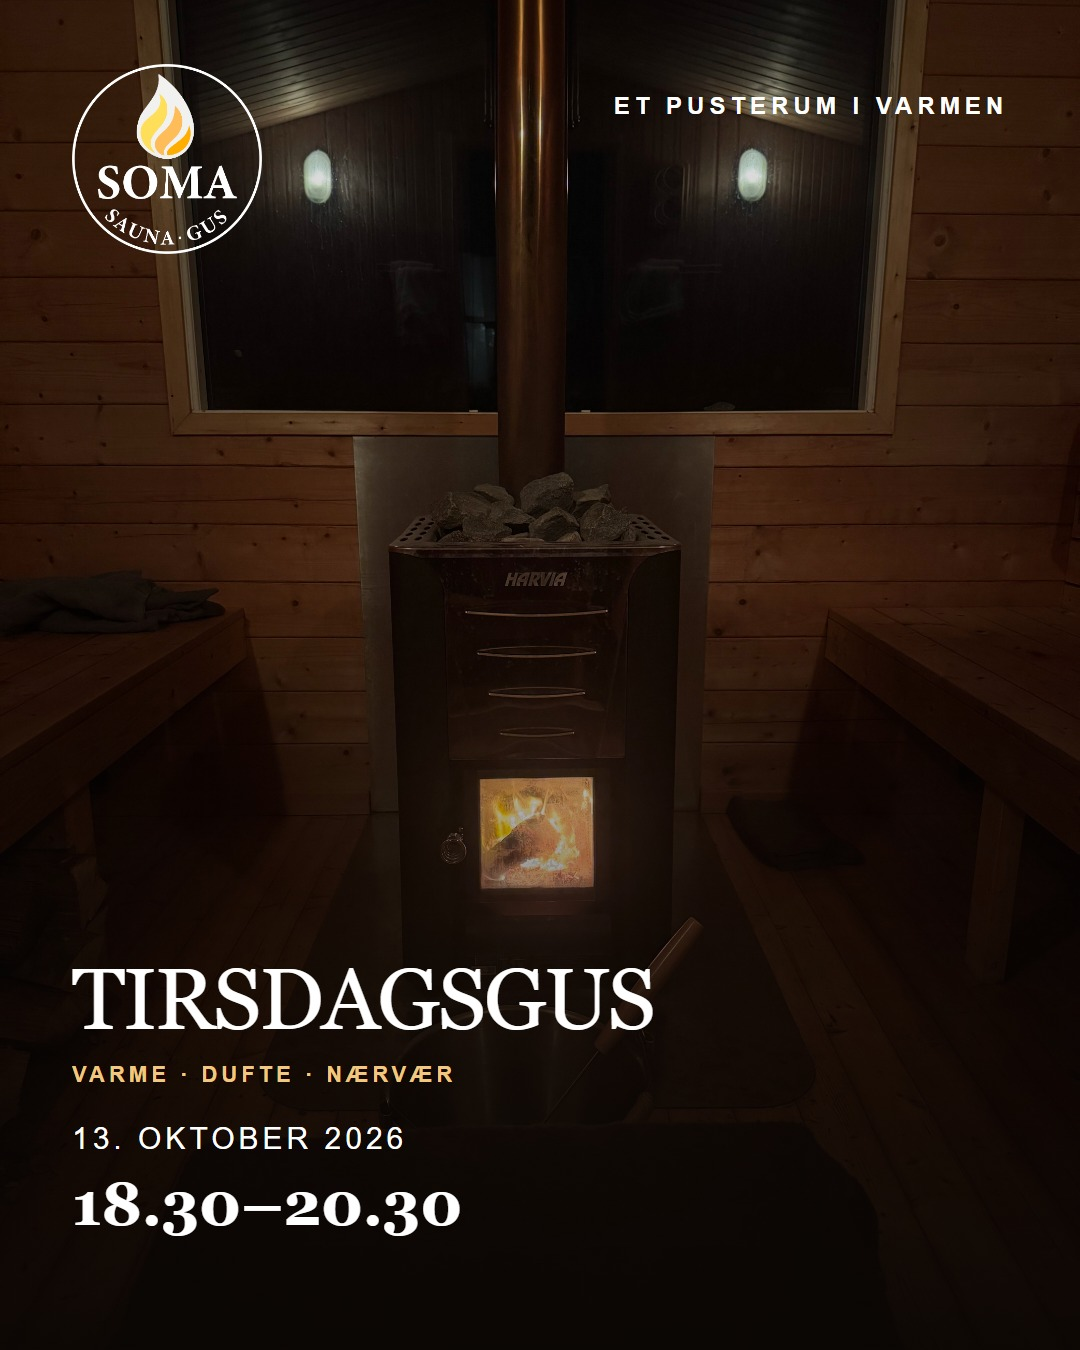
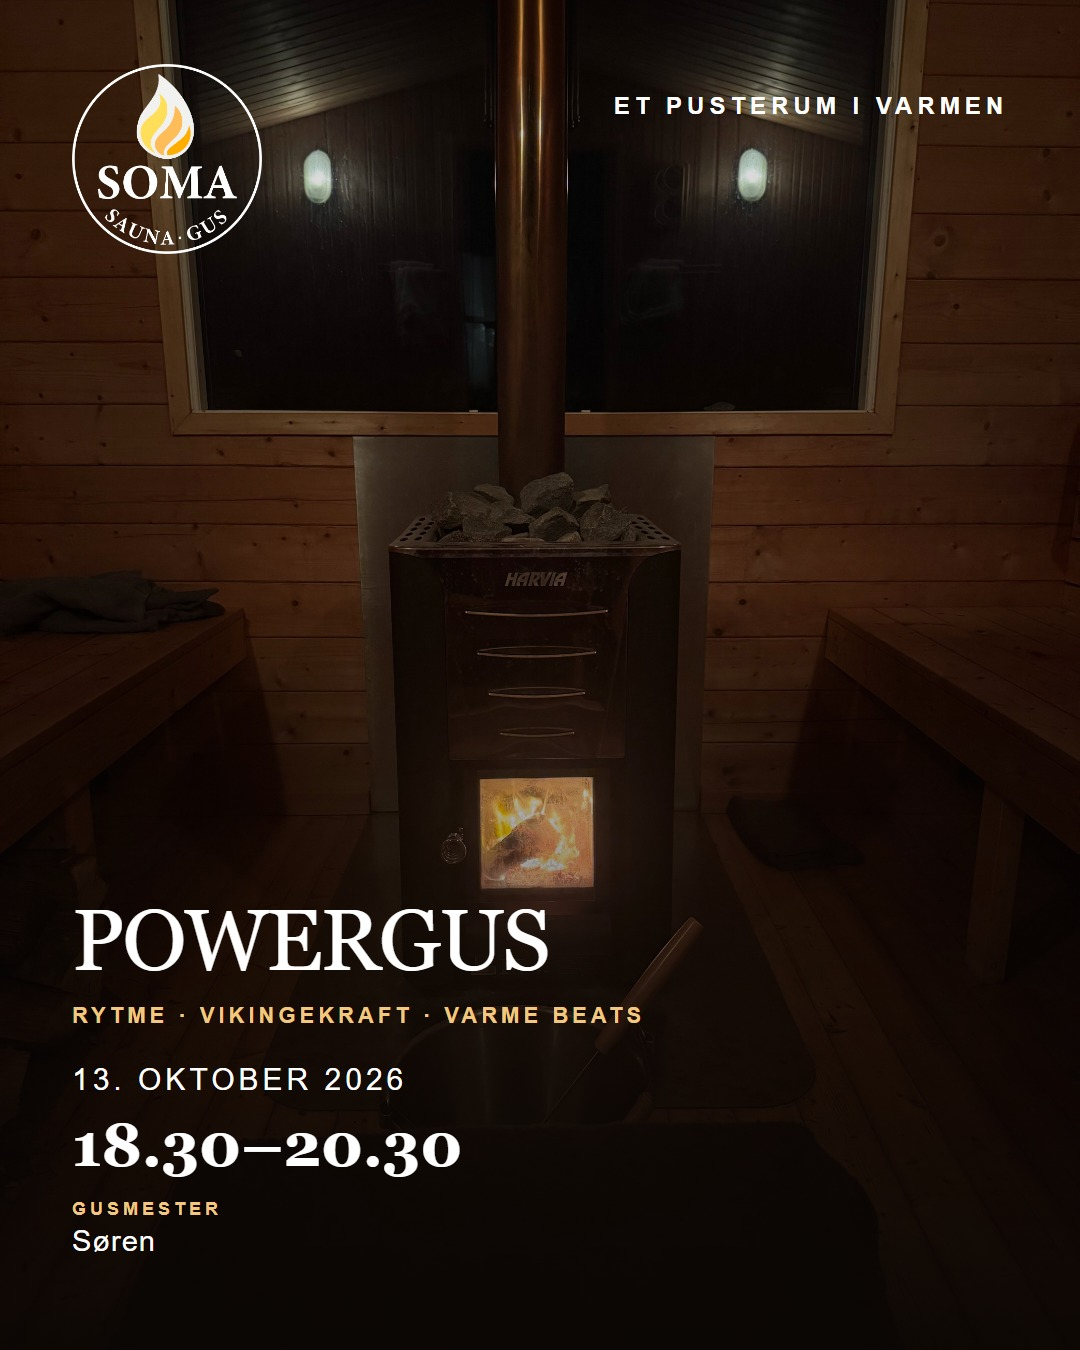
choose-instructor: 2026-10-13_18-30_saunagus_day-before_r10 (soren) via lokal godkendelsesside

Changed region(s): [[0.0611, 0.6533, 0.6111, 0.9333]]

diff --git a/outputs/content-planner/approval/drafts-data.js b/outputs/content-planner/approval/drafts-data.js
@@ -728,7 +728,7 @@ window.__SOMA_DRAFTS__ = window.__SOMA_DRAFTS__ || [
         "name": "Saunagus",
         "booked": 0,
         "capacity": 12,
-        "instructor": null,
+        "instructor": "Søren",
         "description": null,
         "sourceText": "18:30 - 20:30 SAUNAGUS 0/12 Tilmeld",
         "sourceUrl": "https://somasaunagus.dk/kalender/",
@@ -785,11 +785,11 @@ window.__SOMA_DRAFTS__ = window.__SOMA_DRAFTS__ || [
     "availability": null,
     "warnings": [],
     "platformCopies": {
-      "instagram": "Næste uges gus 🔥\n\n• 13. oktober 2026 · 18.30–20.30 · Tirsdagsgus\n• 15. oktober 2026 · 18.30–20.30 · Torsdagsgus\n• 18. oktober 2026 · 10.00–12.00 · Gus med MilleMaja\n• 18. oktober 2026 · 16.00–18.00 · Søndagsgus\n\nSe tider og book via kalenderen: https://somasaunagus.dk/kalender/",
-      "facebookPage": "Her er næste uges gus. Hver session har sit eget udtryk, men altid med plads til ro, varme, dufte, musik og nærvær.\n\n• 13. oktober 2026 · 18.30–20.30 · Tirsdagsgus\n• 15. oktober 2026 · 18.30–20.30 · Torsdagsgus\n• 18. oktober 2026 · 10.00–12.00 · Gus med MilleMaja\n• 18. oktober 2026 · 16.00–18.00 · Søndagsgus\n\nFind den oplevelse, der passer dig, og book din plads her: https://somasaunagus.dk/kalender/",
-      "facebookGroup": "Kære alle ❤\n\nHer er næste uges muligheder for at finde ro i varmen:\n\n• 13. oktober 2026 · 18.30–20.30 · Tirsdagsgus\n• 15. oktober 2026 · 18.30–20.30 · Torsdagsgus\n• 18. oktober 2026 · 10.00–12.00 · Gus med MilleMaja\n• 18. oktober 2026 · 16.00–18.00 · Søndagsgus\n\nJeg glæder mig til at se jer. Booking: https://somasaunagus.dk/kalender/"
+      "instagram": "Næste uges gus 🔥\n\n• 13. oktober 2026 · 18.30–20.30 · Powergus\n• 15. oktober 2026 · 18.30–20.30 · Torsdagsgus\n• 18. oktober 2026 · 10.00–12.00 · Gus med MilleMaja\n• 18. oktober 2026 · 16.00–18.00 · Søndagsgus\n\nSe tider og book via kalenderen: https://somasaunagus.dk/kalender/",
+      "facebookPage": "Her er næste uges gus. Hver session har sit eget udtryk, men altid med plads til ro, varme, dufte, musik og nærvær.\n\n• 13. oktober 2026 · 18.30–20.30 · Powergus\n• 15. oktober 2026 · 18.30–20.30 · Torsdagsgus\n• 18. oktober 2026 · 10.00–12.00 · Gus med MilleMaja\n• 18. oktober 2026 · 16.00–18.00 · Søndagsgus\n\nFind den oplevelse, der passer dig, og book din plads her: https://somasaunagus.dk/kalender/",
+      "facebookGroup": "Kære alle ❤\n\nHer er næste uges muligheder for at finde ro i varmen:\n\n• 13. oktober 2026 · 18.30–20.30 · Powergus\n• 15. oktober 2026 · 18.30–20.30 · Torsdagsgus\n• 18. oktober 2026 · 10.00–12.00 · Gus med MilleMaja\n• 18. oktober 2026 · 16.00–18.00 · Søndagsgus\n\nJeg glæder mig til at se jer. Booking: https://somasaunagus.dk/kalender/"
     },
[2 lines of base64/hex data omitted]
     "factsUsed": [
       "event:2026-10-13_18-30_saunagus.date",
       "event:2026-10-13_18-30_saunagus.time",
@@ -808,7 +808,7 @@ window.__SOMA_DRAFTS__ = window.__SOMA_DRAFTS__ || [
[1 lines of base64/hex data omitted]
     },
     "renderPath": "renders/2026-10-12_weekly-overview-df6ac12272.jpg",
-    "manualInstructor": null,
+    "manualInstructor": "Søren",
     "history": [
       {
         "at": "2026-10-04T07:04:43.509Z",
@@ -869,9 +869,15 @@ window.__SOMA_DRAFTS__ = window.__SOMA_DRAFTS__ || [
         "type": "change_image",
         "from": "draft",
         "to": "draft"
+      },
+      {
+        "at": "2026-10-04T08:48:13.980Z",
+        "type": "change_instructor",
+        "from": "draft",
+        "to": "draft"
       }
     ],
[2 lines of base64/hex data omitted]
     "approvedAt": null,
     "approvedBy": null,
     "approvedRevision": null,
@@ -887,7 +893,7 @@ window.__SOMA_DRAFTS__ = window.__SOMA_DRAFTS__ || [
[1 lines of base64/hex data omitted]
     "revision": 10,
     "kind": "day_before",
-    "status": "needs_review",
+    "status": "draft",
     "scheduledFor": "2026-10-12T19:30:00+02:00",
     "season": "autumn",
     "event": {
@@ -897,7 +903,7 @@ window.__SOMA_DRAFTS__ = window.__SOMA_DRAFTS__ || [
       "name": "Saunagus",
       "booked": 0,
       "capacity": 12,
-      "instructor": null,
+      "instructor": "Søren",
       "description": null,
       "sourceText": "18:30 - 20:30 SAUNAGUS 0/12 Tilmeld",
       "sourceUrl": "https://somasaunagus.dk/kalender/",
@@ -910,15 +916,13 @@ window.__SOMA_DRAFTS__ = window.__SOMA_DRAFTS__ || [
       "label": "12 ledige pladser",
       "soldOut": false
     },
-    "warnings": [
-      "instructor_missing"
-    ],
+    "warnings": [],
     "platformCopies": {
-      "instagram": "I morgen: Giv dig selv et varmt pusterum.\n\nSaunagus\n\n13. oktober 2026 · 18.30–20.30\n\n12 ledige pladser.\n\nBook din plads: https://somasaunagus.dk/kalender/",
-      "facebookPage": "I morgen kan du træde ind i varmen til et saunagus.\n\nGiv dig selv et varmt pusterum.\n\nEt saunagus med varme, dufte, musik og nærvær.\n\nDu er velkommen præcis, som du er.\n\nDato og tid: 13. oktober 2026 · 18.30–20.30\n\n12 ledige pladser.\n\nBook din plads: https://somasaunagus.dk/kalender/",
-      "facebookGroup": "Kære alle ❤\n\nI morgen kan du træde ind i varmen til et saunagus.\n\nGiv dig selv et varmt pusterum.\n\nTid: 13. oktober 2026 · 18.30–20.30\n\n12 ledige pladser.\n\nDu kan booke her: https://somasaunagus.dk/kalender/"
+      "instagram": "I morgen: Kom ind i varmen, land i kroppen og vær lige her.\n\n13. oktober 2026 · 18.30–20.30\n\n12 ledige pladser.\n\nBook din plads: https://somasaunagus.dk/kalender/",
+      "facebookPage": "I morgen kan du træde ind i varmen til et saunagus.\n\nKom ind i varmen, land i kroppen og vær lige her.\n\nMusikken får mere fylde og rytme uden at skubbe roen til side.\n\nEn sanselig stund med plads til både styrke og velvære.\n\nDato og tid: 13. oktober 2026 · 18.30–20.30\n\n12 ledige pladser.\n\nBook din plads: https://somasaunagus.dk/kalender/",
+      "facebookGroup": "Kære alle ❤\n\nI morgen kan du træde ind i varmen til et saunagus.\n\nKom ind i varmen, land i kroppen og vær lige her.\n\nTid: 13. oktober 2026 · 18.30–20.30\n\n12 ledige pladser.\n\nDu kan booke her: https://somasaunagus.dk/kalender/"
     },
[2 lines of base64/hex data omitted]
     "factsUsed": [
       "event.date",
       "event.start",
@@ -931,10 +935,10 @@ window.__SOMA_DRAFTS__ = window.__SOMA_DRAFTS__ || [
       "path": "renders/2026-10-13_18-30_saunagus_day-before-dcb792ffaa.jpg",
       "width": 1080,
       "height": 1350,
[2 lines of base64/hex data omitted]
     },
     "renderPath": "renders/2026-10-13_18-30_saunagus_day-before-dcb792ffaa.jpg",
-    "manualInstructor": null,
+    "manualInstructor": "Søren",
     "instructorOptions": {
       "soren": {
         "instructor": "Søren",
@@ -983,9 +987,15 @@ window.__SOMA_DRAFTS__ = window.__SOMA_DRAFTS__ || [
         "type": "change_image",
         "from": "needs_review",
         "to": "needs_review"
+      },
+      {
+        "at": "2026-10-04T08:48:13.980Z",
+        "type": "change_instructor",
+        "from": "needs_review",
+        "to": "draft"
       }
     ],
[2 lines of base64/hex data omitted]
     "approvedAt": null,
     "approvedBy": null,
     "approvedRevision": null,
@@ -1001,7 +1011,7 @@ window.__SOMA_DRAFTS__ = window.__SOMA_DRAFTS__ || [
[1 lines of base64/hex data omitted]
     "revision": 10,
     "kind": "event_day",
-    "status": "needs_review",
+    "status": "draft",
     "scheduledFor": "2026-10-13T12:00:00+02:00",
     "season": "autumn",
     "event": {
@@ -1011,7 +1021,7 @@ window.__SOMA_DRAFTS__ = window.__SOMA_DRAFTS__ || [
       "name": "Saunagus",
       "booked": 0,
       "capacity": 12,
-      "instructor": null,
+      "instructor": "Søren",
       "description": null,
       "sourceText": "18:30 - 20:30 SAUNAGUS 0/12 Tilmeld",
       "sourceUrl": "https://somasaunagus.dk/kalender/",
@@ -1024,15 +1034,13 @@ window.__SOMA_DRAFTS__ = window.__SOMA_DRAFTS__ || [
       "label": "12 ledige pladser",
       "soldOut": false
     },
-    "warnings": [
-      "instructor_missing"
-    ],
+    "warnings": [],
     "platformCopies": {
-      "instagram": "I dag: Der er plads til ro, varme og nærvær.\n\nSaunagus\n\n13. oktober 2026 · 18.30–20.30\n\n12 ledige pladser.\n\nBook din plads: https://somasaunagus.dk/kalender/",
-      "facebookPage": "I dag kan du træde ind i varmen til et saunagus.\n\nDer er plads til ro, varme og nærvær.\n\nEt saunagus med varme, dufte, musik og nærvær.\n\nKom med ind i varmen.\n\nDato og tid: 13. oktober 2026 · 18.30–20.30\n\n12 ledige pladser.\n\nBook din plads: https://somasaunagus.dk/kalender/",
-      "facebookGroup": "Kære alle ❤\n\nI dag kan du træde ind i varmen til et saunagus.\n\nDer er plads til ro, varme og nærvær.\n\nTid: 13. oktober 2026 · 18.30–20.30\n\n12 ledige pladser.\n\nDu kan booke her: https://somasaunagus.dk/kalender/"
+      "instagram": "I dag: Lad skuldrene sænke sig, mens varmen tager over.\n\n13. oktober 2026 · 18.30–20.30\n\n12 ledige pladser.\n\nBook din plads: https://somasaunagus.dk/kalender/",
+      "facebookPage": "I dag kan du træde ind i varmen til et saunagus.\n\nLad skuldrene sænke sig, mens varmen tager over.\n\nDer er mere kraft i musikken, mens kroppen inviteres til at give slip og finde ro.\n\nVi starter blidt, mærker rytmen og slutter roligt.\n\nDato og tid: 13. oktober 2026 · 18.30–20.30\n\n12 ledige pladser.\n\nBook din plads: https://somasaunagus.dk/kalender/",
+      "facebookGroup": "Kære alle ❤\n\nI dag kan du træde ind i varmen til et saunagus.\n\nLad skuldrene sænke sig, mens varmen tager over.\n\nTid: 13. oktober 2026 · 18.30–20.30\n\n12 ledige pladser.\n\nDu kan booke her: https://somasaunagus.dk/kalender/"
     },
[2 lines of base64/hex data omitted]
     "factsUsed": [
       "event.date",
       "event.start",
@@ -1045,10 +1053,10 @@ window.__SOMA_DRAFTS__ = window.__SOMA_DRAFTS__ || [
       "path": "renders/2026-10-13_18-30_saunagus_event-day-dcb792ffaa.jpg",
       "width": 1080,
       "height": 1350,
[2 lines of base64/hex data omitted]
     },
     "renderPath": "renders/2026-10-13_18-30_saunagus_event-day-dcb792ffaa.jpg",
-    "manualInstructor": null,
+    "manualInstructor": "Søren",
     "instructorOptions": {
       "soren": {
         "instructor": "Søren",
@@ -1091,9 +1099,15 @@ window.__SOMA_DRAFTS__ = window.__SOMA_DRAFTS__ || [
         "type": "change_image",
         "from": "needs_review",
         "to": "needs_review"
+      },
+      {
+        "at": "2026-10-04T08:48:13.980Z",
+        "type": "change_instructor",
+        "from": "needs_review",
+        "to": "draft"
       }
     ],
[2 lines of base64/hex data omitted]
     "approvedAt": null,
     "approvedBy": null,
     "approvedRevision": null,
